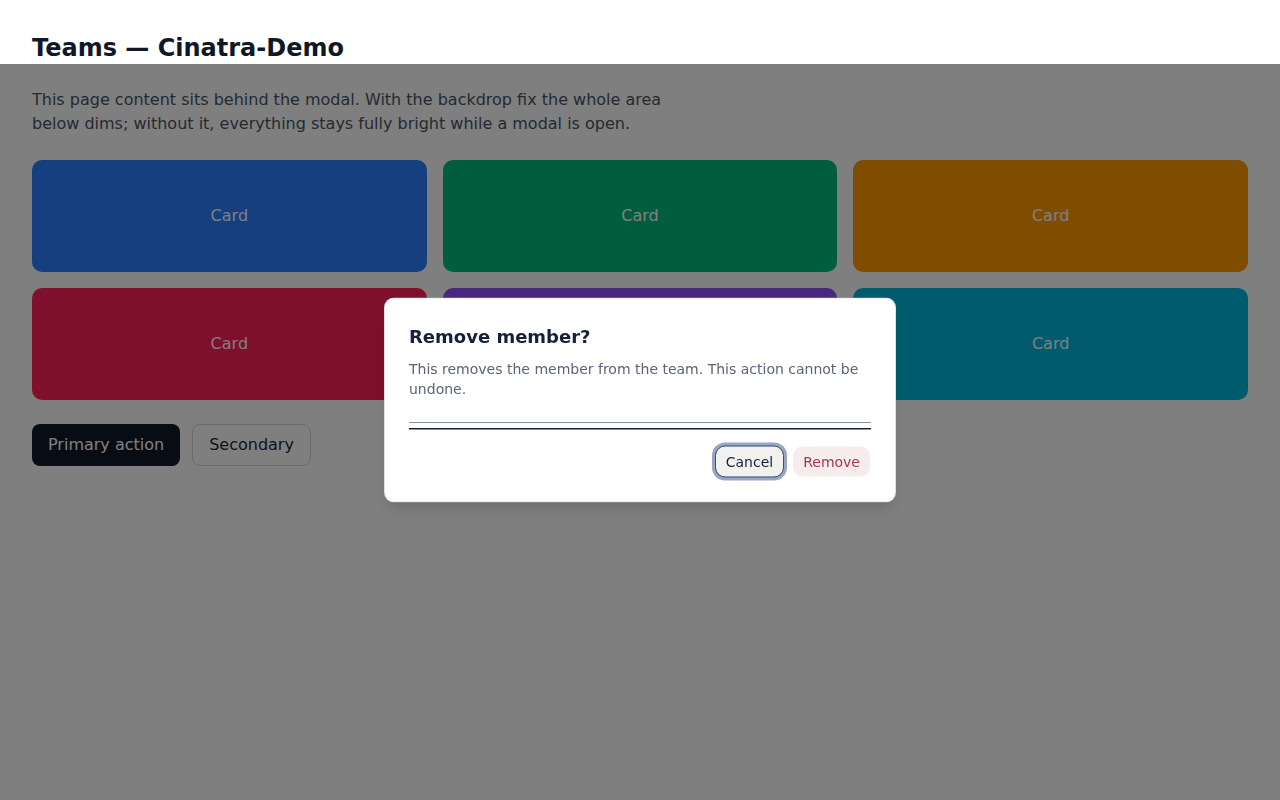
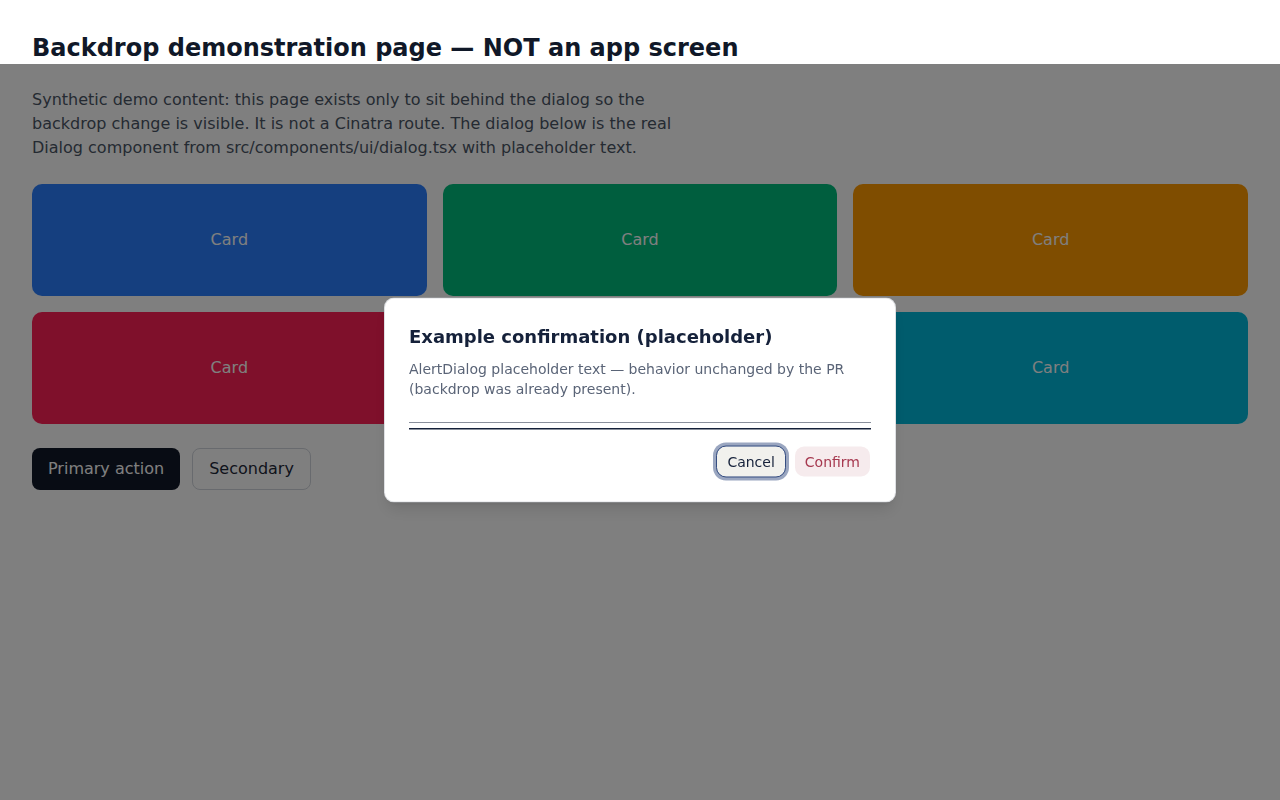
Relabel proof page as synthetic demo (placeholder copy, no app-page implication)
Assisted-by: Claude Code (claude-fable-5)

diff --git a/README.md b/README.md
@@ -1,7 +1,7 @@
 # Visual proof — PR #1518 (dialog backdrop by default, closes #1500)
 
 Component-level before/after of `src/components/ui/dialog.tsx` + `alert-dialog.tsx`,
-rendered by the repo's real components and real Tailwind CSS in headless Chromium
+re-labeled unambiguously as a synthetic demo page; rendered by the repo's real components and real Tailwind CSS in headless Chromium
 (minimal harness; no app server). "Before" = the two component files at `origin/main`,
 "after" = PR head `f3e53965`. DOM assertion during capture:
 `[data-slot=dialog-overlay]` ABSENT before / PRESENT after; alert-dialog overlay
